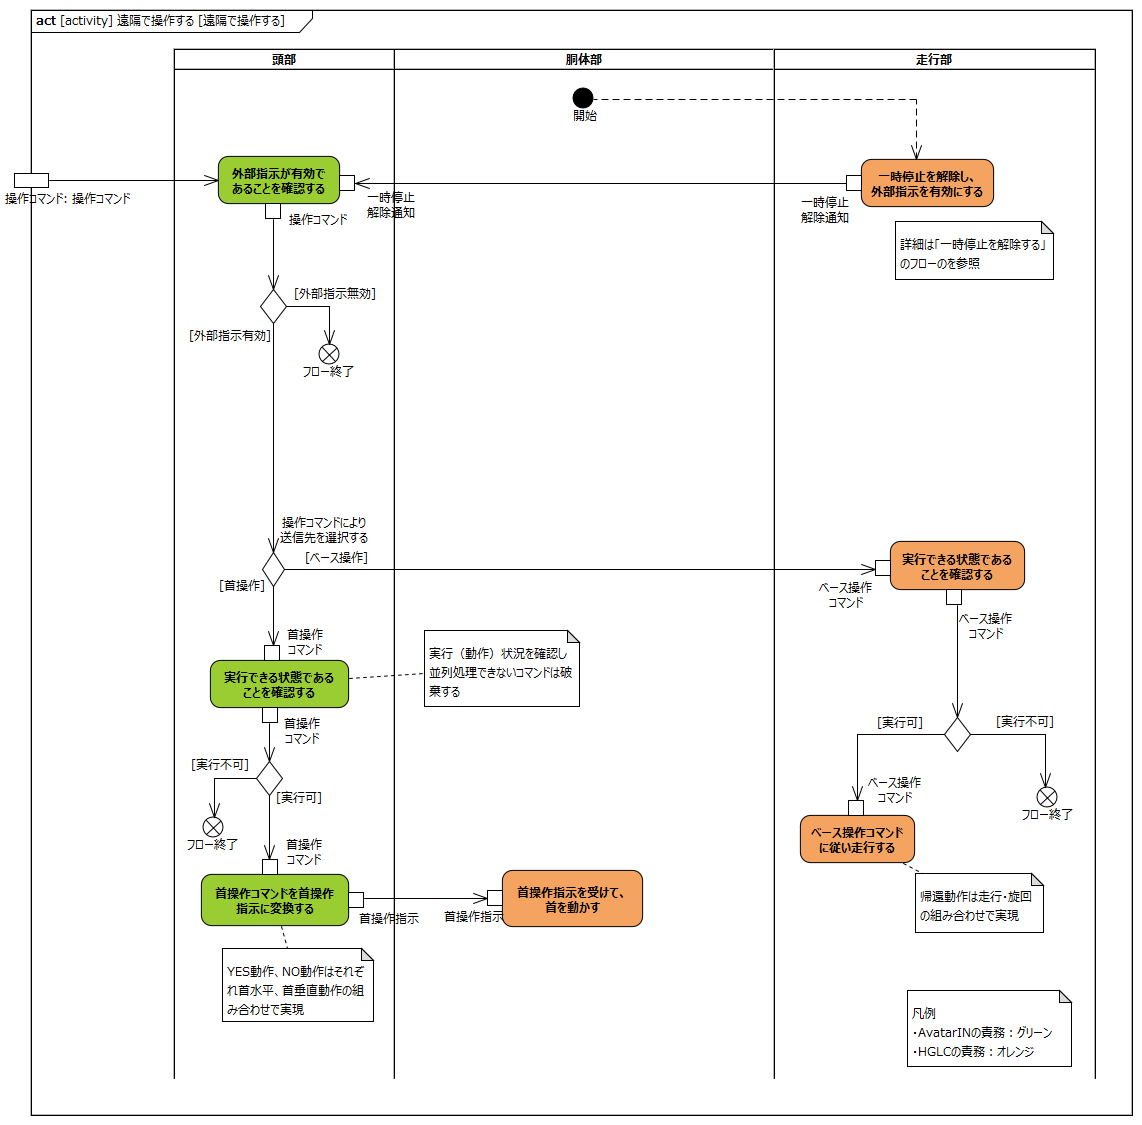
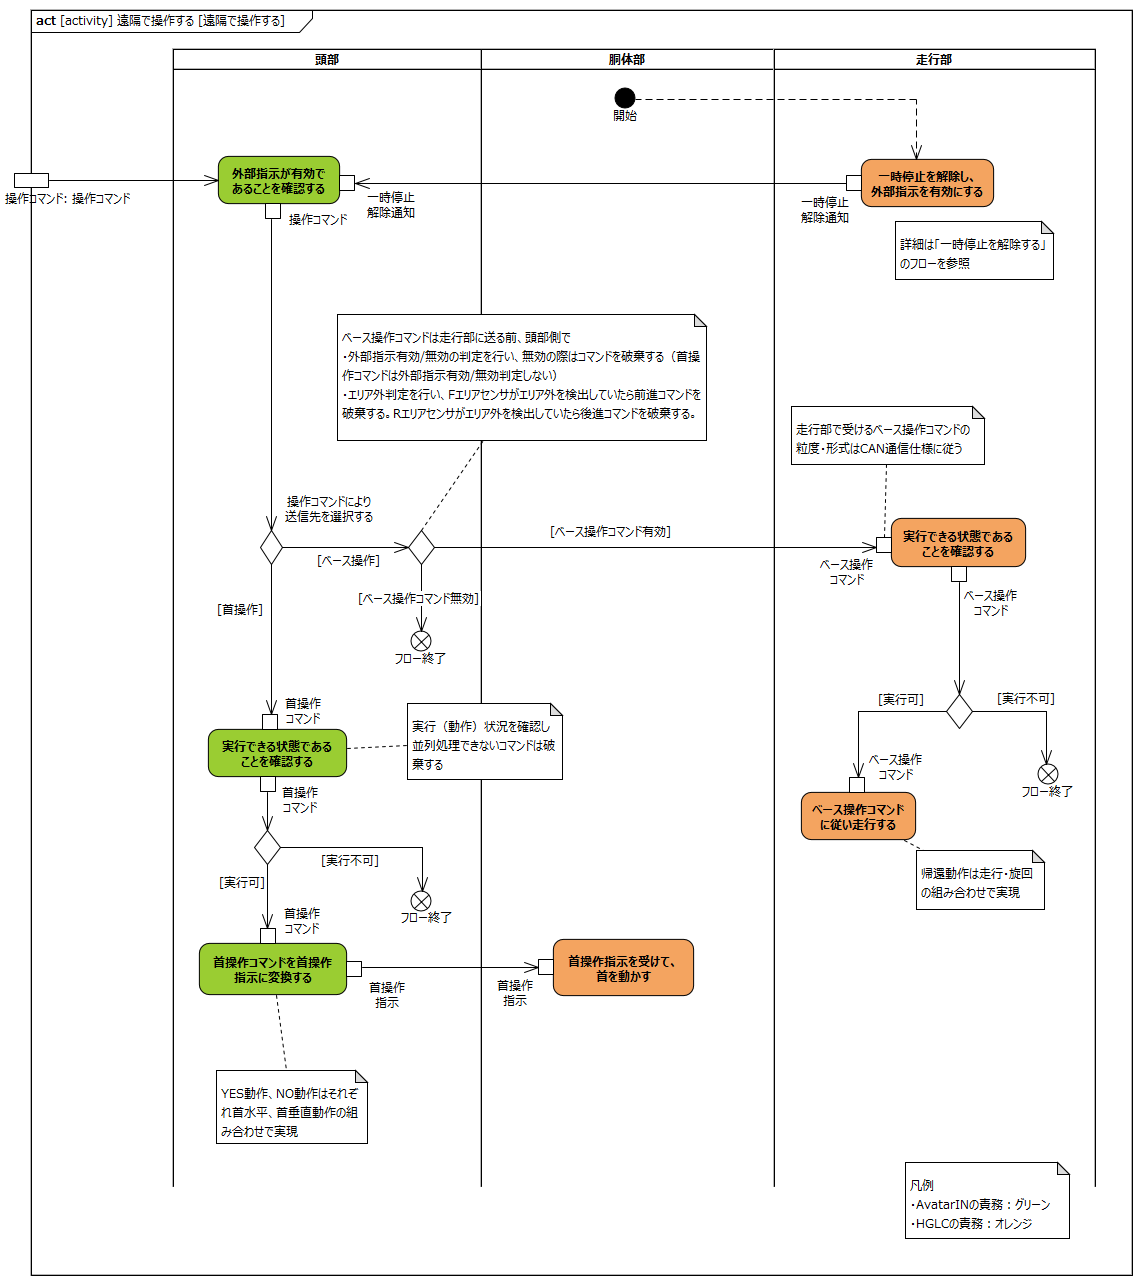
”遠隔で操作する”のL2要求記述対応 ・requirement.md  -「遠隔で操作する」 　－概念クラス図修正 　－アクティビティ図修正 　－図に合わせた文言修正 ・remote_control.md  ー各アクションにあわせて図を追加  ーアクションをL2分析した結果を追記

diff --git a/requirements/remote_control.md b/requirements/remote_control.md
@@ -18,16 +18,32 @@
 
 <div style="page-break-before:always"></div>
 
-# L2要求記述の対象となる要求（L0）
+# 遠隔で操作する
 
-「遠隔で操作する」
+
 
 ![](.images/activity/remote_control.png)
 
 
 <div style="page-break-before:always"></div>
 
-## (Action※L1要求名)
+## 胴体部は首操作指示を受けて、首を動かす
+
+![](.images/activity/remote_control/body-act01.png)
+
+**L2要求抽出**
+
+|要求|備考|
+|:---|:---|
+|首水平モータは首操作指示を受け取り、動作する|※１|
+|首水平モータ駆動中に、別の首操作指示が入力された場合は、その指示に従って動作する|※１|
+|首垂直モータは首操作指示を受け取り、動作する|※１|
+|首垂直モータ駆動中に、別の首操作指示が入力された場合は、その指示に従って動作する|※１|
+※１首操作指示：首操作指示コマンドを現在水平モータ角度、現在垂直モータ角度に展開したもの
+
+<div style="page-break-before:always"></div>
+
+## 走行部は一時停止を解除し外部指示を有効であることを頭部に通知する
 
 ![](.images/activity/remote_control/act01.png)
 
@@ -36,16 +52,51 @@
 
 |要求|備考|
 |:---|:---|
-|||
+|Miimo Main ECUは外部指示有効をアバターコアに通知する||
 
 <div style="page-break-before:always"></div>
 
-## (Action※L1要求名)
+## 走行部はベース操作コマンドを実行できる状態であることを確認する
 
 ![](.images/activity/remote_control/act02.png)
+
+
+### コマンドが実行可能かを判定する
+
+![](.images/activity/remote_control/act02-1.png)
 
 **L2要求抽出**
 
 |要求|備考|
 |:---|:---|
-|||
+|Miimo Main ECUは現在の状態を特定する||
+|Miimo Main ECUはリリース待ち状態かどうかを判定し、リリース待ち状態の場合、リリースコマンドのみ受け付ける||
+|Miimo Main ECUはリリース動作中かどうかを判定し、リリース動作中の場合、キャンセルコマンドのみ受け付ける||
+|Miimo Main ECUは動作中かどうかを判定し、動作中状態でない場合、コマンドを破棄する||
+|Miimo Main ECUは一時停止中かどうかを判定し、一時停止中状態の場合、コマンドを破棄する||
+|Miimo Main ECUはドッキング動作中かどうかを判定し、ドッキング動作中で無い場合、キャンセルコマンドを破棄し、ドッキング動作中の場合、キャンセルコマンドのみ受け付ける||
+※１：機能コマンドのキャンセルコマンドは１つの想定
+※２：エリア外を検出して前進・後進を抑制するのはアバターコア側の責務の想定
+
+<div style="page-break-before:always"></div>
+
+## 走行部はベース操作コマンドに従い走行する
+
+![](.images/activity/remote_control/act03.png)
+
+
+**L2要求抽出**
+
+|要求|備考|
+|:---|:---|
+|Miimo Main ECUは帰還コマンド受け取った場合、動作モードをドッキング動作モードに変更し、エリアセンサ信号から左右走行モータ駆動信号を算出する|※１※２|
+|Miimo Main ECUはリリースコマンドを受け取った場合、動作モードをリリース動作モードに変更し、エリアセンサ信号から左右走行モータ駆動信号を算出する|※１※２|
+|Miimo Main ECUはキャンセルコマンドを受け取った場合、動作モードをドッキング/リリース動作モードを解除する|※１|
+|Miimo Main ECUは走行操作コマンドを受け付けた場合、左右走行モータへのモータ駆動信号に変換する|※３|
+|右走行モータはモータ駆動信号を受け取り動作する||
+|右走行モータ駆動中に別のモータ駆動信号が入力された場合、その信号に従って動作する||
+|左走行モータはモータ駆動信号を受け取り動作する||
+|左走行モータ駆動中に別のモータ駆動信号が入力された場合、その信号に従って動作する||
+※１：機能コマンドはアバターコア側で要求モードに変換したものを受け取る想定
+※２：充電ステーション近傍での自動運転を想定
+※３：走行操作コマンドはアバターコア側で併進速度とヨーレート指令に変換したものを受け取る想定

diff --git a/requirements/requirement.md b/requirements/requirement.md
@@ -970,7 +970,7 @@
 
 操作コマンドの概念モデルを以下に記載する。操作コマンドにはロボットのベースを制御するためのコマンドと首を制御するためのコマンドがある。
 
-ベース操作コマンドには走行コマンド、旋回コマンド、帰還指示コマンドと帰還指示キャンセルコマンドがある。<br/>帰還指示コマンドは走行、旋回のコマンドに依存する。<br/>帰還指示キャンセルコマンドはドッキング動作を中止するコマンドである。<br/>
+ベース操作コマンドは走行指示するための走行操作コマンドと自動運転指示する機能コマンドをサブクラスとする。<br/>走行操作コマンドには走行コマンド、旋回コマンドがある。<br/>機能コマンドには帰還コマンド、リリースコマンド、キャンセルコマンドがある。<br/>帰還コマンドは充電ステーションにドッキングするまで自動で走行・旋回する動作を指示する。<br/>リリースコマンドは充電ステーションからリリースされるまで自動で走行・旋回する動作を指示する。<br/>キャンセルコマンドは帰還中、リリース中の自動運転動作を中止するコマンドである。<br/>
 
 首操作コマンドには首位置初期化コマンド、首水平動作コマンド、首垂直動作コマンド、YES動作コマンド、NO動作コマンドがある。<br/>首位置初期化コマンドは首水平動作、首垂直動作のコマンドに依存する。<br/>
 YES動作コマンドは首垂直動作に依存し、NO動作コマンドは首水平動作に依存する。
@@ -998,11 +998,14 @@ YES動作コマンドは首垂直動作に依存し、NO動作コマンドは首
 |要求|備考|
 |:---|:---|
 |頭部は外部指示が有効であることを確認する||
-|頭部は外部指示が無効の場合は操作コマンドを破棄する||
-|頭部は操作コマンドがベース操作コマンドの場合、ベース操作コマンドを走行部に送信する||
+|頭部は操作コマンドにより送信先を選択する||
+|頭部は外部指示が無効の場合はベース操作コマンドを破棄する|首操作コマンドは破棄しない|
+|頭部はFエリアセンサがエリア外を検出している時にベース操作コマンドの前進コマンドを破棄する||
+|頭部はRエリアセンサがエリア外を検出している時にベース操作コマンドの後進コマンドを破棄する||
+|頭部は有効と判断したベース操作コマンドを走行部に送信する|有効無効判定は上記要求を参照|
 |頭部は首操作コマンドを実行できる状態であることを確認する||
 |頭部は首操作コマンドを実行できる状態でなければ、首操作コマンドを破棄する||
-|頭部は首操作コマンドを首操作指示に変換する|・首操作指示：首操作指示コマンドを現在水平モータ角度、現在垂直モータ角度に展開したもの|
+|頭部は首操作コマンドを首操作指示に変換する|首操作指示：首操作指示コマンドを現在水平モータ角度、現在垂直モータ角度に展開したもの|
 |胴体部は首操作指示を受けて、首を動かす||
 |走行部は一時停止を解除し外部指示を有効であることを頭部に通知する||
 |走行部はベース操作コマンドを実行できる状態であることを確認する||
